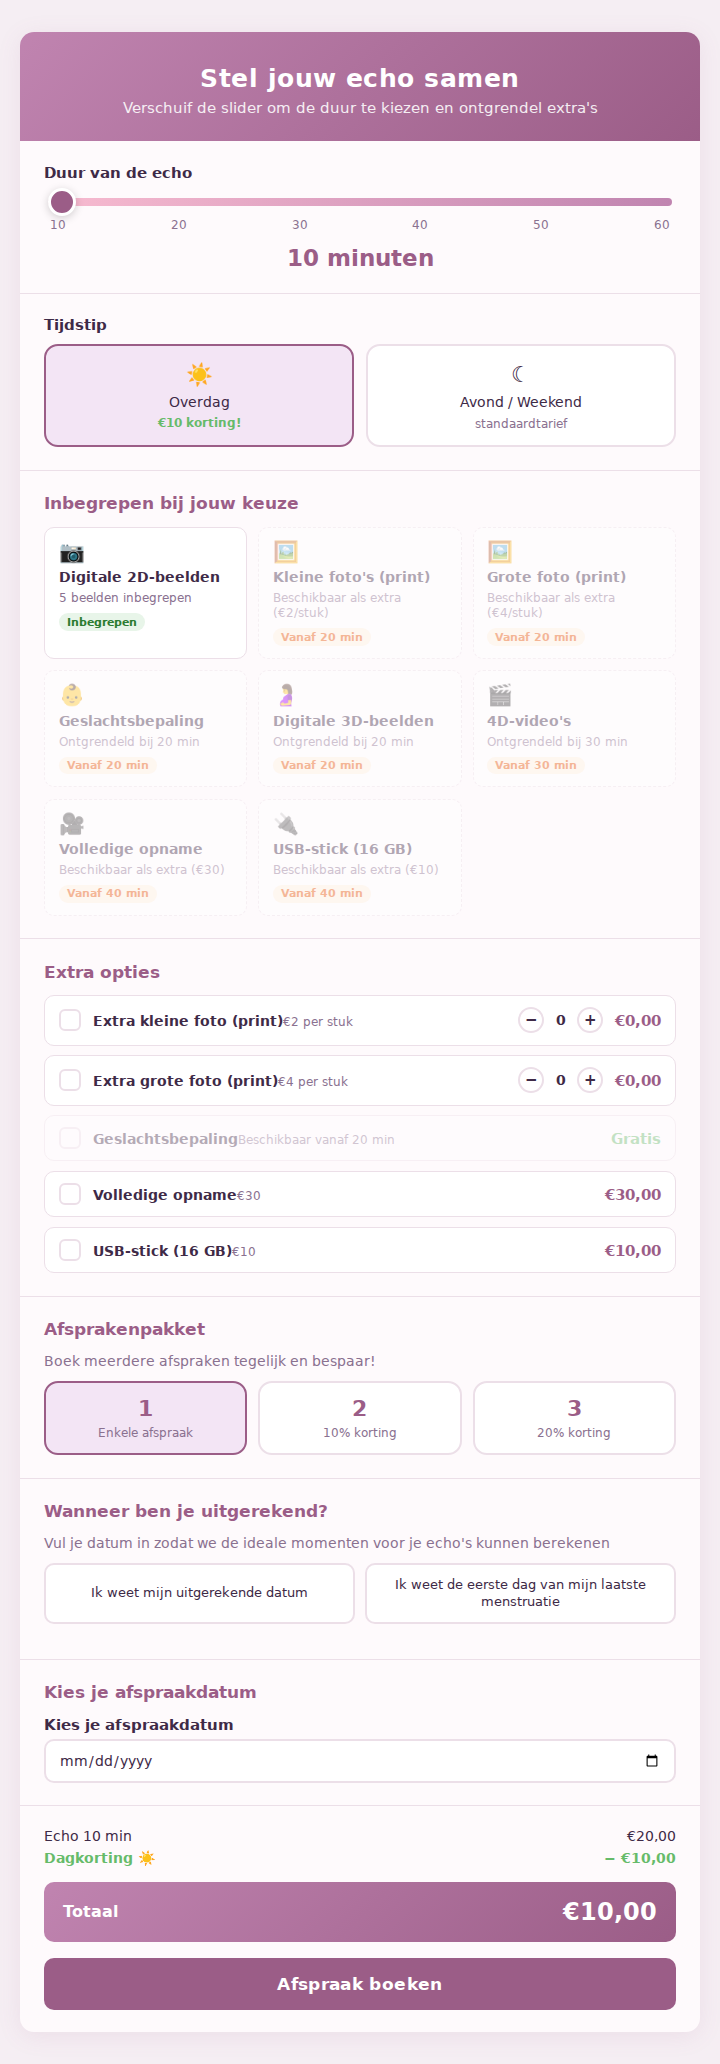
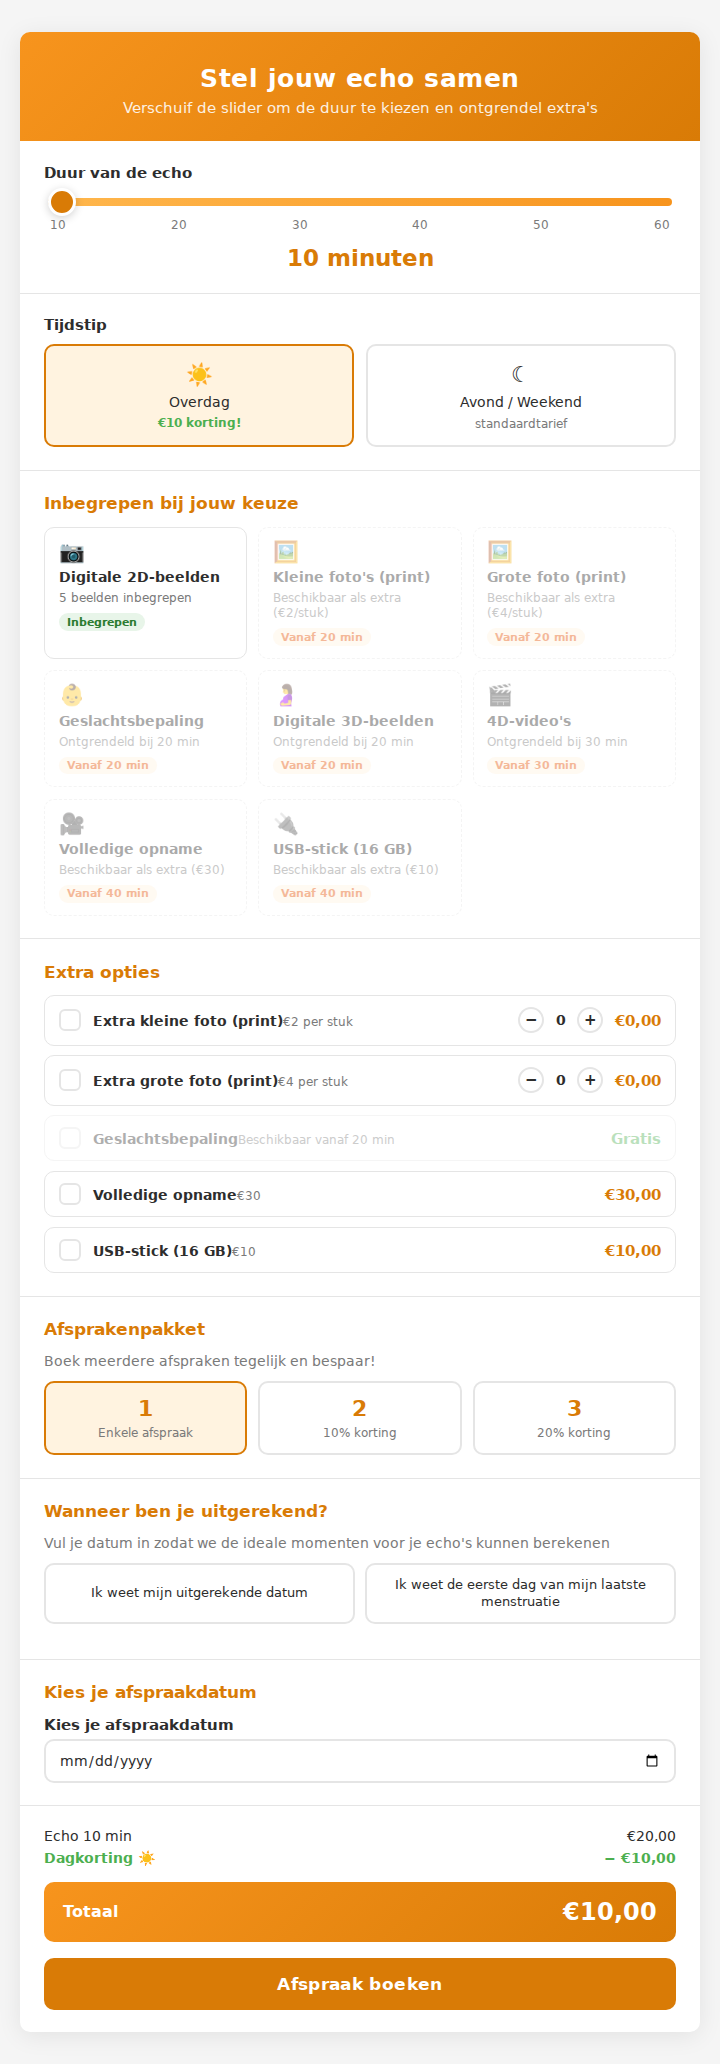
Restyle plugin to match EchoVisie.nl brand identity
- Primary color: #F7941D (EchoVisie orange) replacing pink/purple
- Dark accent: #D97B06, light tint: #FFF3E0
- Text: #2D2D2D charcoal, muted: #7A7A7A neutral grey
- Borders: #E5E5E5 neutral, shadows: neutral black-based
- Font: Poppins (loaded from Google Fonts) matching the site's
  modern geometric sans-serif style
- Tighter border-radius (10px) for a cleaner, more professional look
- All hardcoded pink/purple references replaced throughout CSS and demo
- PHP enqueues Google Fonts as a dependency before the plugin CSS

https://claude.ai/code/session_01Xd4aWfoY6rZc1548xRoFhB

diff --git a/demo.html b/demo.html
@@ -4,22 +4,25 @@
     <meta charset="UTF-8">
     <meta name="viewport" content="width=device-width, initial-scale=1.0">
     <title>EchoVisie Booking – Demo</title>
+    <link rel="preconnect" href="https://fonts.googleapis.com">
+    <link rel="preconnect" href="https://fonts.gstatic.com" crossorigin>
+    <link href="https://fonts.googleapis.com/css2?family=Poppins:wght@400;500;600;700;800&display=swap" rel="stylesheet">
     <style>
         body {
             margin: 0;
             padding: 2rem 1rem;
-            background: #f5eef3;
+            background: #F5F5F5;
             min-height: 100vh;
         }
 
         /* === EchoVisie Booking Widget – Stylesheet === */
         .ev-booking *, .ev-booking *::before, .ev-booking *::after { box-sizing: border-box; margin: 0; padding: 0; }
         .ev-booking {
-            --ev-primary: #c084b0; --ev-primary-dark: #9b5d87; --ev-primary-light: #f3e5f5;
-            --ev-accent: #f8bbd0; --ev-bg: #fefafc; --ev-card: #ffffff;
-            --ev-text: #3e2a47; --ev-text-muted: #8a7190; --ev-border: #ecdfe8;
-            --ev-success: #66bb6a; --ev-radius: 14px; --ev-shadow: 0 4px 24px rgba(155,93,135,.10);
-            font-family: 'Segoe UI', system-ui, -apple-system, sans-serif;
+            --ev-primary: #F7941D; --ev-primary-dark: #D97B06; --ev-primary-light: #FFF3E0;
+            --ev-accent: #FFB74D; --ev-bg: #ffffff; --ev-card: #ffffff;
+            --ev-text: #2D2D2D; --ev-text-muted: #7A7A7A; --ev-border: #E5E5E5;
+            --ev-success: #4CAF50; --ev-radius: 10px; --ev-shadow: 0 4px 24px rgba(0,0,0,.08);
+            font-family: 'Poppins', 'Segoe UI', system-ui, -apple-system, sans-serif;
             color: var(--ev-text); background: var(--ev-bg); border-radius: var(--ev-radius);
             max-width: 680px; margin: 0 auto; padding: 0; overflow: hidden; box-shadow: var(--ev-shadow);
         }
@@ -96,17 +99,17 @@
         .ev-milestone-card .ev-ms-status { font-size: .78rem; font-weight: 600; margin-top: .2rem; }
         .ev-ms-past { opacity: .5; border-style: dashed; }
         .ev-ms-past .ev-ms-status { color: var(--ev-text-muted); }
-        .ev-ms-current { border-color: var(--ev-success); background: #f0faf0; }
-        .ev-ms-current .ev-ms-status { color: #2e7d32; }
+        .ev-ms-current { border-color: var(--ev-primary); background: var(--ev-primary-light); }
+        .ev-ms-current .ev-ms-status { color: var(--ev-primary-dark); }
         .ev-ms-future .ev-ms-status { color: var(--ev-primary-dark); }
 
         /* Date pickers */
         .ev-dates-container { display: flex; flex-direction: column; gap: 1rem; }
         .ev-date-group { display: flex; flex-direction: column; gap: .4rem; }
         .ev-date-label { font-weight: 600; font-size: .92rem; }
-        .ev-date-suggestion { font-size: .82rem; color: var(--ev-text-muted); background: #faf5ed; border: 1px solid #ece0cc; border-radius: 8px; padding: .5rem .7rem; line-height: 1.45; display: flex; align-items: flex-start; gap: .4rem; }
+        .ev-date-suggestion { font-size: .82rem; color: var(--ev-text-muted); background: var(--ev-primary-light); border: 1px solid #F5D9B0; border-radius: 8px; padding: .5rem .7rem; line-height: 1.45; display: flex; align-items: flex-start; gap: .4rem; }
         .ev-date-sug-icon { font-size: 1rem; flex-shrink: 0; }
-        .ev-date-sug-range { color: #a88a5f; font-size: .75rem; }
+        .ev-date-sug-range { color: var(--ev-primary-dark); font-size: .75rem; }
         .ev-date-input { width: 100%; padding: .65rem .8rem; border: 2px solid var(--ev-border); border-radius: 10px; font-size: .9rem; font-family: inherit; color: var(--ev-text); background: var(--ev-card); outline: none; transition: border-color .2s; }
         .ev-date-input:focus { border-color: var(--ev-primary); }
 
@@ -118,7 +121,7 @@
         .ev-total-label { font-size: 1rem; font-weight: 600; }
         .ev-total-amount { font-size: 1.5rem; font-weight: 800; }
         .ev-book-btn { display: block; width: 100%; padding: 1rem; border: none; border-radius: 10px; background: var(--ev-primary-dark); color: #fff; font-size: 1.05rem; font-weight: 700; cursor: pointer; transition: background .2s, transform .15s; font-family: inherit; letter-spacing: .02em; }
-        .ev-book-btn:hover { background: #7d4470; transform: translateY(-1px); }
+        .ev-book-btn:hover { background: #C06A00; transform: translateY(-1px); }
         .ev-book-btn:active { transform: translateY(0); }
 
         @media (max-width: 520px) {

diff --git a/css/echovisie-booking.css b/css/echovisie-booking.css
@@ -12,20 +12,20 @@
 }
 
 .ev-booking {
-    --ev-primary: #c084b0;
-    --ev-primary-dark: #9b5d87;
-    --ev-primary-light: #f3e5f5;
-    --ev-accent: #f8bbd0;
-    --ev-bg: #fefafc;
+    --ev-primary: #F7941D;
+    --ev-primary-dark: #D97B06;
+    --ev-primary-light: #FFF3E0;
+    --ev-accent: #FFB74D;
+    --ev-bg: #ffffff;
     --ev-card: #ffffff;
-    --ev-text: #3e2a47;
-    --ev-text-muted: #8a7190;
-    --ev-border: #ecdfe8;
-    --ev-success: #66bb6a;
-    --ev-radius: 14px;
-    --ev-shadow: 0 4px 24px rgba(155, 93, 135, .10);
+    --ev-text: #2D2D2D;
+    --ev-text-muted: #7A7A7A;
+    --ev-border: #E5E5E5;
+    --ev-success: #4CAF50;
+    --ev-radius: 10px;
+    --ev-shadow: 0 4px 24px rgba(0, 0, 0, .08);
 
-    font-family: 'Segoe UI', system-ui, -apple-system, sans-serif;
+    font-family: 'Poppins', 'Segoe UI', system-ui, -apple-system, sans-serif;
     color: var(--ev-text);
     background: var(--ev-bg);
     border-radius: var(--ev-radius);
@@ -221,12 +221,12 @@
     width: fit-content;
 }
 .ev-inc-badge.free {
-    background: #e8f5e9;
-    color: #2e7d32;
+    background: #E8F5E9;
+    color: #2E7D32;
 }
 .ev-inc-badge.unlock {
-    background: #fff3e0;
-    color: #e65100;
+    background: #FFF3E0;
+    color: #E65100;
 }
 
 /* ---------- Add-ons ---------- */
@@ -477,11 +477,11 @@
     color: var(--ev-text-muted);
 }
 .ev-ms-current {
-    border-color: var(--ev-success);
-    background: #f0faf0;
+    border-color: var(--ev-primary);
+    background: var(--ev-primary-light);
 }
 .ev-ms-current .ev-ms-status {
-    color: #2e7d32;
+    color: var(--ev-primary-dark);
 }
 .ev-ms-future .ev-ms-status {
     color: var(--ev-primary-dark);
@@ -505,8 +505,8 @@
 .ev-date-suggestion {
     font-size: .82rem;
     color: var(--ev-text-muted);
-    background: #faf5ed;
-    border: 1px solid #ece0cc;
+    background: var(--ev-primary-light);
+    border: 1px solid #F5D9B0;
     border-radius: 8px;
     padding: .5rem .7rem;
     line-height: 1.45;
@@ -519,7 +519,7 @@
     flex-shrink: 0;
 }
 .ev-date-sug-range {
-    color: #a88a5f;
+    color: var(--ev-primary-dark);
     font-size: .75rem;
 }
 .ev-date-input {
@@ -588,7 +588,7 @@
     letter-spacing: .02em;
 }
 .ev-book-btn:hover {
-    background: #7d4470;
+    background: #C06A00;
     transform: translateY(-1px);
 }
 .ev-book-btn:active {

diff --git a/echovisie-booking.php b/echovisie-booking.php
@@ -21,9 +21,15 @@ function echovisie_enqueue_assets() {
     global $post;
     if ( is_a( $post, 'WP_Post' ) && has_shortcode( $post->post_content, 'echovisie_booking' ) ) {
         wp_enqueue_style(
+            'echovisie-google-fonts',
+            'https://fonts.googleapis.com/css2?family=Poppins:wght@400;500;600;700;800&display=swap',
+            array(),
+            null
+        );
+        wp_enqueue_style(
             'echovisie-booking-css',
             ECHOVISIE_PLUGIN_URL . 'css/echovisie-booking.css',
-            array(),
+            array( 'echovisie-google-fonts' ),
             '1.0.0'
         );
         wp_enqueue_script(
